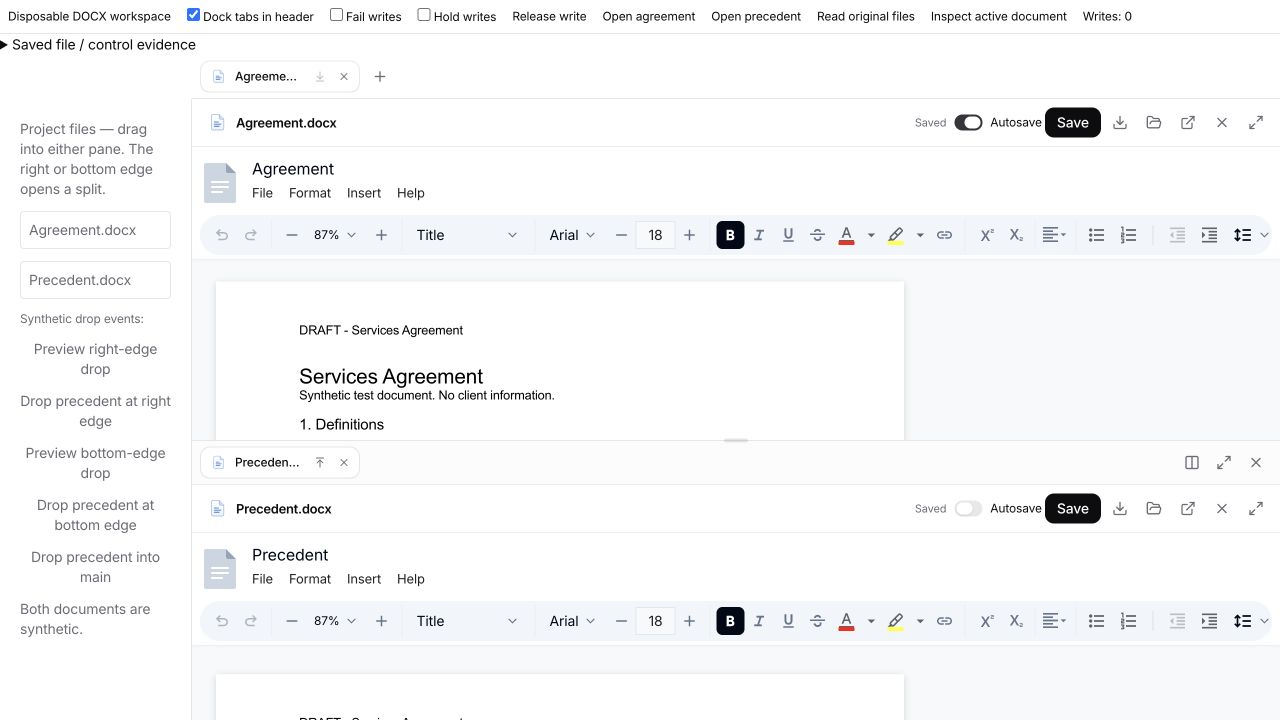
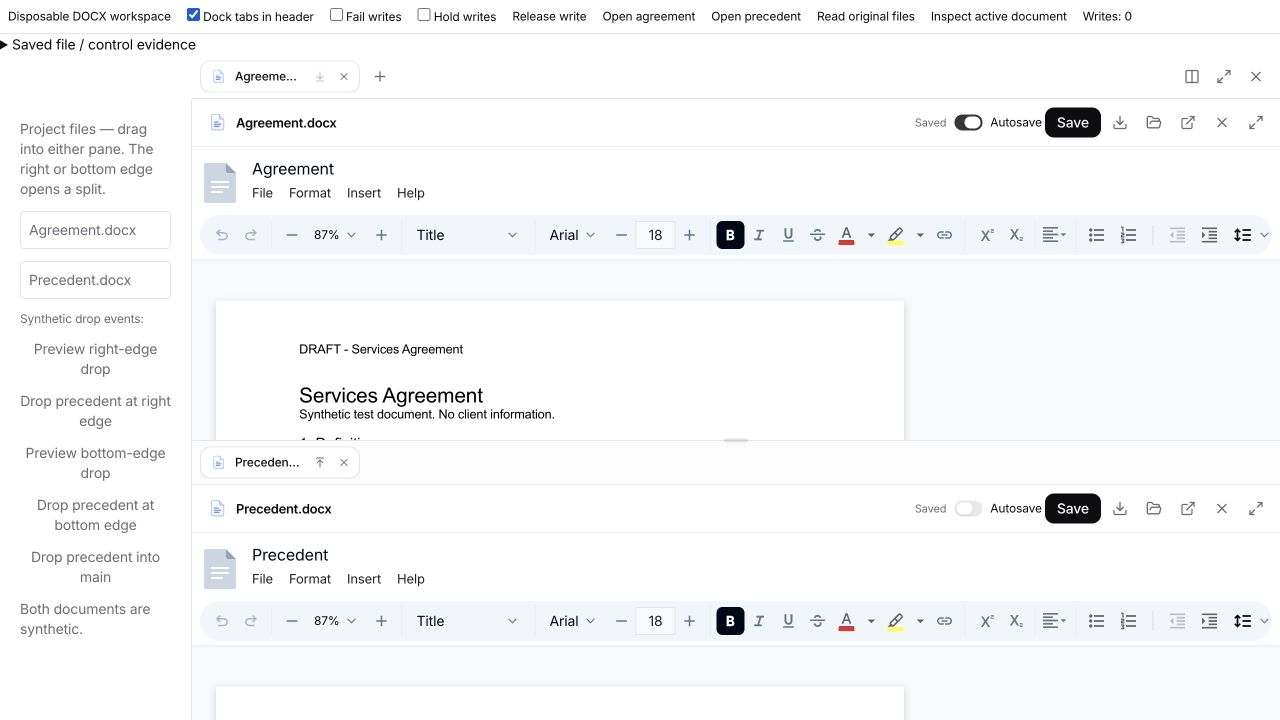
fix(documents): keep workspace controls at the top right

Changed region(s): [[0.2188, 0.4583, 0.4375, 0.6111], [0.9062, 0.0917, 0.9375, 0.1222], [0.125, 0.0, 0.1562, 0.0306]]

diff --git a/apps/app/src/react-app/domains/session/panel/side-panel.tsx b/apps/app/src/react-app/domains/session/panel/side-panel.tsx
@@ -787,8 +787,8 @@ export function SidePanel({
   const stripClassName = cn("shrink-0 titlebar-no-drag", portaledHeader ? "h-full" : "bg-muted/35 backdrop-blur-xl");
   const stripRowClassName = cn("flex h-11 items-center gap-1 border-b border-border/70 px-2", portaledHeader && "h-full border-b-0");
   const layoutLabel = t(stacked ? "side_panel.arrange_side_by_side" : "side_panel.arrange_stacked");
-  // Closes the whole viewer, so it sits at the outer end of the last strip.
-  const closeButton = (
+  // Shared workspace controls stay at the top-right in either orientation.
+  const workspaceControls = (
     <div className="ml-auto flex shrink-0">
       <Button variant="ghost" size="icon-sm" onClick={() => useDocumentPreferences.getState().setSplitOrientation(stacked ? "horizontal" : "vertical")} aria-label={layoutLabel} title={layoutLabel}>
         {stacked ? <Columns2 /> : <Rows2 />}
@@ -856,7 +856,7 @@ export function SidePanel({
             </DropdownMenuItem>
           </DropdownMenuContent>
         </DropdownMenu>
-        {sideActiveTab ? null : closeButton}
+        {!sideActiveTab || stacked ? workspaceControls : null}
       </div>
     </TabDropZone>
   );
@@ -892,7 +892,7 @@ export function SidePanel({
             ))}
           </PanelTabList>
         </div>
-        {closeButton}
+        {stacked ? null : workspaceControls}
       </div>
     </TabDropZone>
   ) : null;

diff --git a/docs/reviews/side-by-side-documents.md b/docs/reviews/side-by-side-documents.md
@@ -26,6 +26,8 @@ This is a two-pane workspace within one window. Cross-window document transfer, 
 
 The layout button beside Expand switches between **Stack documents vertically** and **Arrange documents side by side**. The document arrow changes to **Open below** / **Move to the top pane** in the stacked layout. Each document keeps its own tab strip; the lower strip stays with its pane even when the upper strip uses the window header. Both panes still expand together.
 
+The shared layout, expand/restore and close-viewer buttons always sit at the workspace's top-right: in the upper tab strip for stacked documents and in the right strip for side-by-side documents. The follow-up positioning change passed typecheck and browser checks for both layouts, docked headers and the expanded workspace; each has exactly one shared control group.
+
 With a single pane, dropping a file or movable document tab on its bottom 30% opens a vertical split; the right 30% opens a horizontal split. In the overlapping corner the nearer relative edge wins. Existing splits accept files into the indicated pane. Orientation and separate width/height divider positions persist on this device; old preferences retain the horizontal default.
 
 Vertical-layout validation: **778 tests passed, 0 failed**, across 115 files. Typecheck, production UI build, the English/German audit (5,069 keys each) and whitespace checks passed. Browser checks with synthetic DOCX files covered bottom-edge event routing, both layout directions, docked/inline tab strips, expansion and resize/reload restoration. The same live editor id, draft revision and unsaved text survived a layout switch; Undo then removed the test edit. Pointer gestures remain a manual check. No selection-highlighting fix is included.
